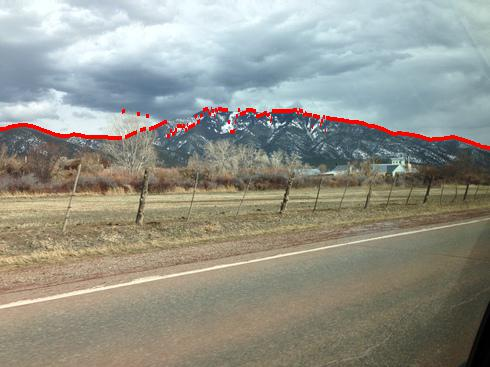
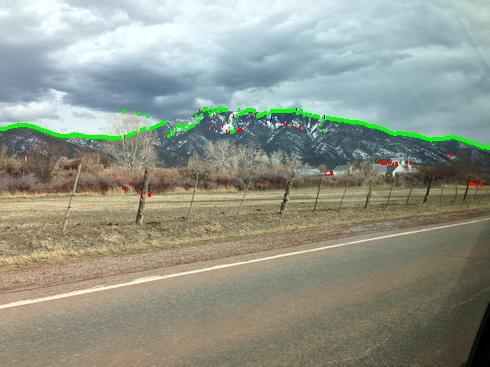
RBG

diff --git a/part2/mountain.py b/part2/mountain.py
@@ -28,8 +28,9 @@ def get_init_point(ridge):
 def transition_Prob(sx1,sx2,es1=0,es2=0):
     smooth = 2.8
     smooth_prop = 1.0
-    sx1 = 1 if sx1==0 else sx1
-    sx2 = 1 if sx2==0 else sx2
+    if sx1==0 or sx2 ==0:
+        sx1+=1
+        sx2 += 1
     proportional = 1.0
     # if(es1 == 0 or es2 ==0):
     #     return 0.00001
@@ -152,20 +153,75 @@ def plot_blue_line(edge_strength,ridge):
             #sample.append(temp);
     return sample
 
+def plot_green_line(edge_strength, ridge,gt_row,gt_col):
+    print "plot_green_line"
+
+    # print init_point
+    sample = []
+    sample.append(ridge)
+    x = gt_row  # index of the sx value in ridge  282
+    y = gt_col  # actual sx value 32
+    # x = 45
+    # y = 160
+    sampleItr = 0
+    toggle = True
+    # print ridge
+    colLst = []
+    for j in range(len(edge_strength[0])):
+        colLst.append(sum([edge_strength[i][j] for i in range(len(edge_strength))]))
+    # print colLst
+    for itr in range(magic_mcmc_no):
+        if (toggle):
+            x += 1
+            # tx = x -1
+        else:
+            x -= 1
+            # tx = x +1
+        temp = list(sample[sampleItr])
+        lst = []
+
+        for i in range(len(edge_strength)):  # col = height
+
+            em = emmission_Prob(edge_strength[i][x], colLst[x])
+            # print (edge_strength[i][x],em)
+            # em = 1
+            # h = ^3.5
+            h = pow((((len(edge_strength) - i) * 0.9) / (len(edge_strength) * 1.0)), 4.6)
+            # tr = transition_Prob(y,i,edge_strength[y][tx],edge_strength[i][x])
+            tr = transition_Prob(y, i)
+            if ((x + 1) == len(ridge) - 1 or (x + 1) == 0):
+                trf = pow(transition_Prob(temp[x + 1], i), 2)
+            else:
+                trf = 1
+            # trf = 1
+            # print tr
+            lst.append(em * h * tr * trf)
+
+            # break
+        # break
+        # print "Before:: "+ str(y)
+        y = lst.index(max(lst))
+        # print "Now:: "+ str(y)
+        temp[x] = y
+        # print temp
+        sample.append(temp);
+        sampleItr += 1;
+        if (x == len(ridge) - 1 or x == 0):
+            toggle = not toggle
+            # sample.append(temp);
+    return sample
+
 
 # main program - python mountain.py mountain.jpg new_output_file.jpg 0 0
 #(input_filename, output_filename, gt_row, gt_col) = sys.argv[1:]
-# file = "2";
 file = '1'
-# print file
-# quit()
 
 while True:
     if file=='10':
         break
     input_filename="mountain"+file+".jpg"
     output_filename="output"+file+".jpg"
-    gt_row,gt_col=0,0
+    gt_row,gt_col=49,50
     print input_filename
     # load in image
     input_image = Image.open(input_filename)
@@ -174,9 +230,13 @@ while True:
     imsave('edges.jpg', edge_strength_value)
 
     ridge = findRedLine(edge_strength_value)
-
+    imsave(output_filename, draw_edge(input_image, ridge, (255, 0, 0), 5))
     # New function Added
     sample = plot_blue_line(edge_strength_value,ridge);
+    imsave(output_filename, draw_edge(input_image, sample[-1], (0, 0, 255), 5))
+
+    sample = plot_green_line(edge_strength_value, ridge,gt_row,gt_col);
+    imsave(output_filename, draw_edge(input_image, sample[-1], (0, 255, 0), 5))
 
     # imsave("Test.jpg", draw_edge(input_image,[169,150] , (0, 0, 255), 5))
     # print ridge
@@ -185,5 +245,5 @@ while True:
 
     # imsave(output_filename, draw_edge(input_image, sample[len(sample) - 1], (255, 0, 0), 5))
     #imsave(output_filename, draw_edge(input_image, average_sample(sample), (255, 0, 0), 5))
-    imsave(output_filename, draw_edge(input_image, sample[-1], (255, 0, 0), 5))
+
     file = str(int(file) + 1)
